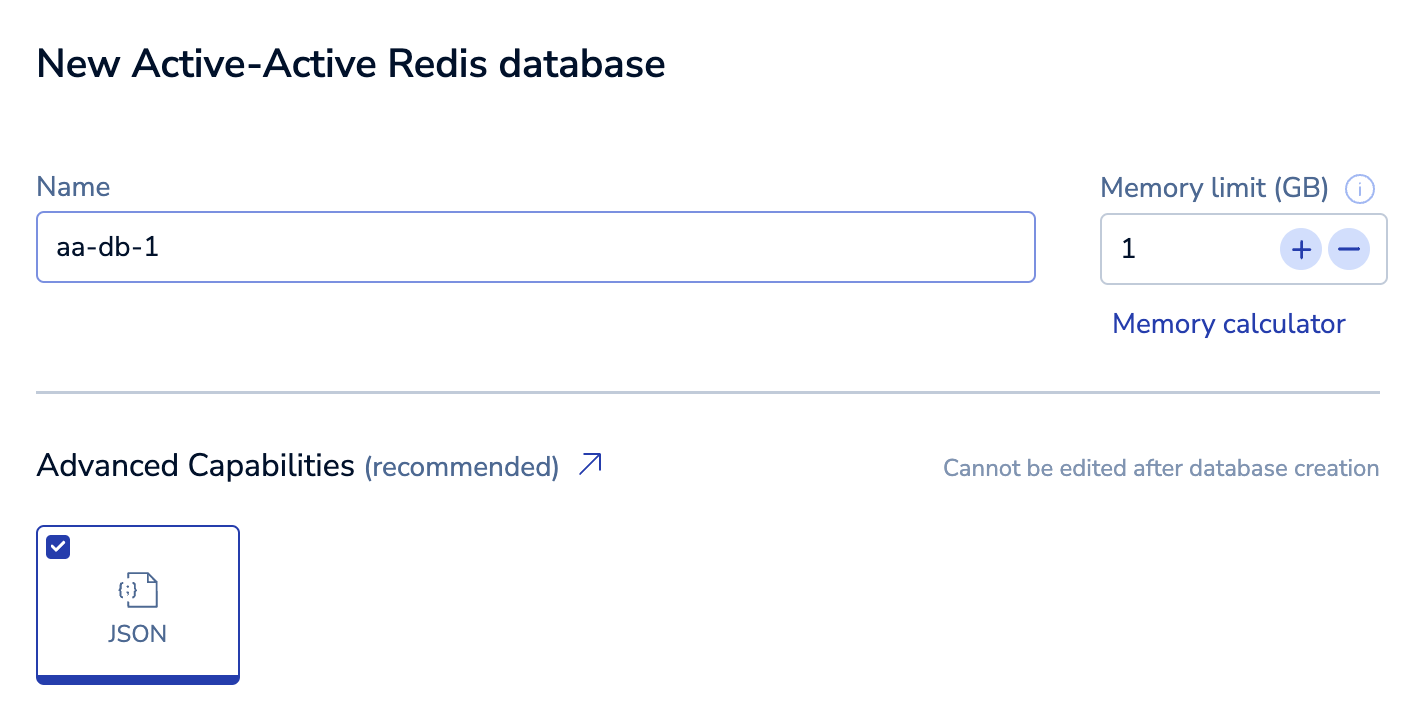
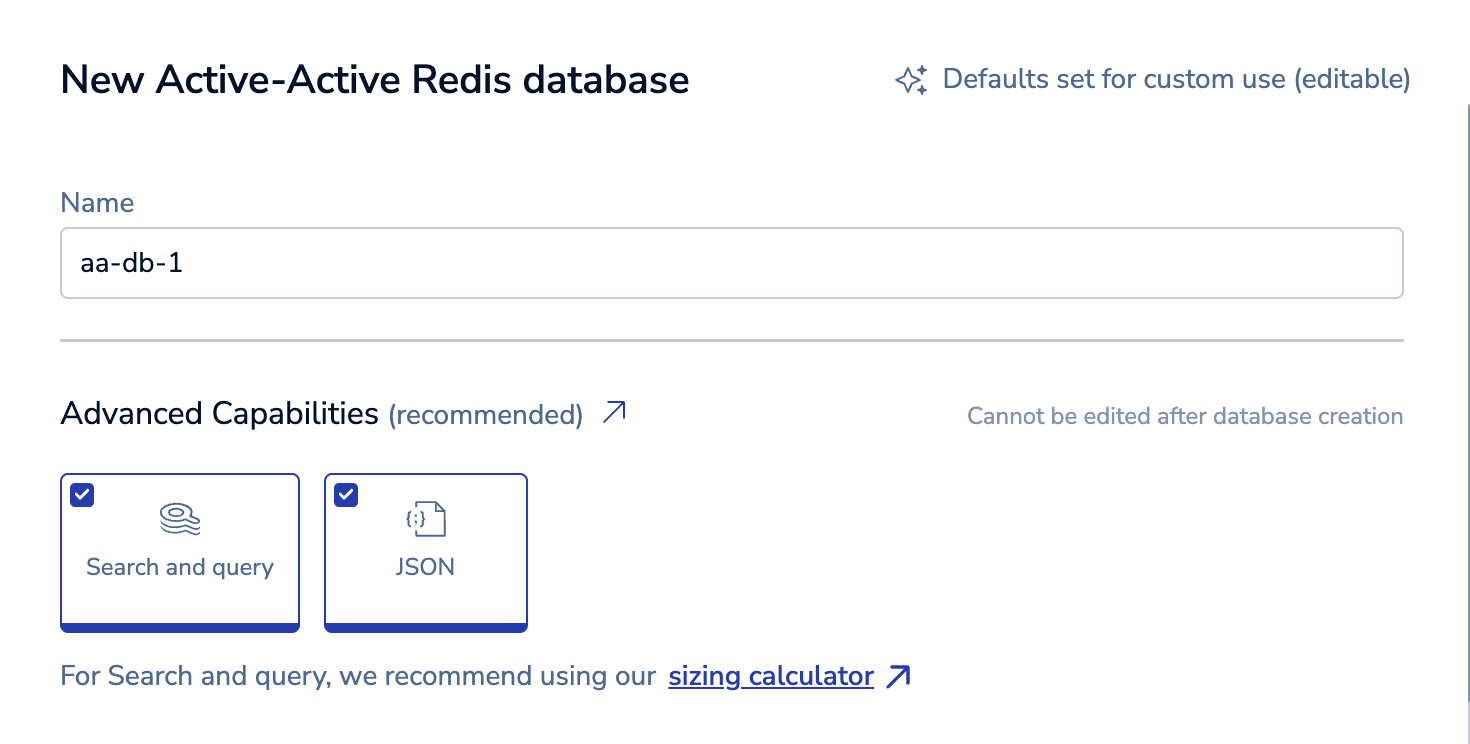
A/A with Search

diff --git a/content/operate/rc/databases/create-database/create-active-active-database.md b/content/operate/rc/databases/create-database/create-active-active-database.md
@@ -68,11 +68,11 @@ Red exclamation marks indicate error conditions; the tooltip provides additional
 
 ## Select capabilities
 
-Active-Active databases support the [JSON]({{< relref "/operate/oss_and_stack/stack-with-enterprise/json" >}}) data type. 
+Active-Active databases support the [JSON]({{< relref "/operate/oss_and_stack/stack-with-enterprise/json" >}}) data type and [Search and query](({{< relref "/operate/oss_and_stack/stack-with-enterprise/search" >}})
 
-{{<image filename="images/rc/active-active-json-detail.png" width="75%" alt="When you create an Active-Active database, you can select the JSON advanced capability." >}}
+{{<image filename="images/rc/active-active-json-detail.png" width="75%" alt="When you create an Active-Active database, you can select the JSON and Search and query advanced capabilities." >}}
 
-We select JSON for you when you create an Active-Active database. Select it again to remove it.
+We select both capabilities for you when you create an Active-Active database. Select each capability again to remove it.
 
 ## Define throughput
 

diff --git a/content/operate/rc/changelog/may-2024.md b/content/operate/rc/changelog/may-2024.md
@@ -1,0 +1,21 @@
+---
+Title: Redis Cloud changelog (May 2024)
+alwaysopen: false
+categories:
+- docs
+- operate
+- rc
+description: New features, enhancements, and other changes added to Redis Cloud during
+  May 2024.
+highlights: Essentials subscriptions through AWS Marketplace
+linktitle: May 2024
+weight: 50
+---
+
+## New features
+
+### Active-Active Search and query support
+
+[Active-Active databases]({{< relref "/operate/rc/databases/configuration/active-active-redis" >}}) on Redis Cloud now support [Search and query]({{< relref "/operate/oss_and_stack/stack-with-enterprise/search" >}}) capabilities. 
+
+See [Create an Active-Active database]({{< relref "/operate/rc/databases/create-database/create-active-active-database" >}}) to learn how to create an Active-Active database.

diff --git a/content/operate/rc/databases/configuration/advanced-capabilities.md b/content/operate/rc/databases/configuration/advanced-capabilities.md
@@ -43,7 +43,7 @@ You can select more than one advanced capability for a database, though there ar
     - Probabilistic
 
 - Graph cannot be combined with other capabilities.
-- JSON is the only capability supported for [Active-Active databases]({{< relref "/operate/rc/databases/create-database/create-active-active-database" >}}).
+- [Active-Active databases]({{< relref "/operate/rc/databases/create-database/create-active-active-database" >}}) only support JSON and Search and query.
 
 You don't have to combine capabilities. To remove a selected capability, clear its checkbox.
 
